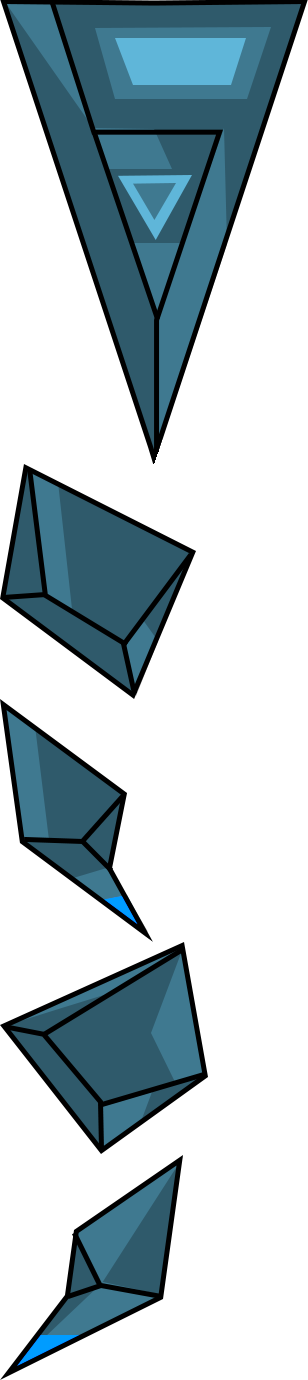
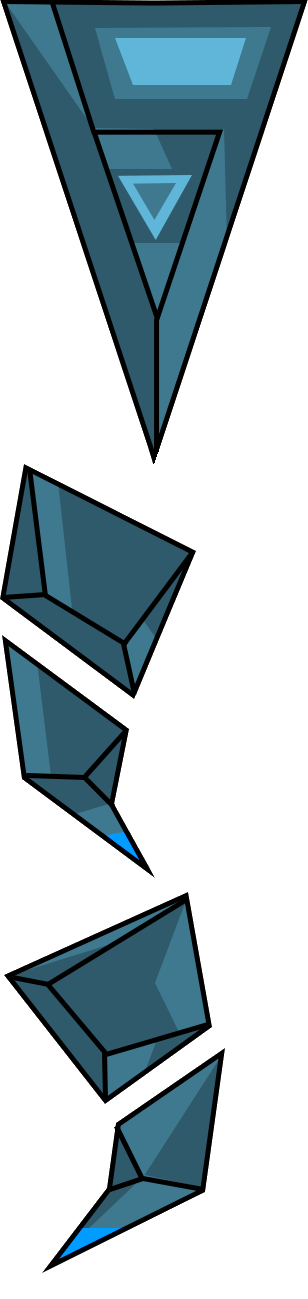
Basic Boss

diff --git a/src/entity/enemy/Enemy_Boss.cpp b/src/entity/enemy/Enemy_Boss.cpp
@@ -1,28 +1,29 @@
 #include "Enemy_Boss.hpp"
 #include "../Bullet/Bullet_Manager.hpp"
+#include <iostream>
 
 Enemy_Boss::Enemy_Boss()
 {
 	animations.push_back(Animation("boss_body"));
-	animations.push_back(Animation("boss_west_wing"));
-	animations.push_back(Animation("boss_west_gun"));
-	animations.push_back(Animation("boss_east_wing"));
-	animations.push_back(Animation("boss_east_gun"));
-	m_stats = EnemyStats(true, 1000, 10, 5, 10, 0.25f, 0);
+	animations.push_back(Animation("boss_west"));
+	animations.push_back(Animation("boss_east"));
+	m_stats = EnemyStats(true, 1000, 10, 5, 10, 2.0f, 0);
+	m_cycle_timer = Tick_Timer(1000);
+	
 }
 
-Enemy_Boss::Enemy_Boss(Bullet_Manager * bullet_manager)
+Enemy_Boss::Enemy_Boss(Bullet_Manager * bullet_manager, Player* player, World_Data* world_data)
+	: m_player(player), m_world_data(world_data)
 {
 	animations.push_back(Animation("boss_body"));
-	animations.push_back(Animation("boss_west_wing"));
-	animations.push_back(Animation("boss_west_gun"));
-	animations.push_back(Animation("boss_east_wing"));
-	animations.push_back(Animation("boss_east_gun"));
-	m_stats = EnemyStats(true, 1000, 10, 5, 10, 0.25f, 0);
+	animations.push_back(Animation("boss_west"));
+	animations.push_back(Animation("boss_east"));
+	m_stats = EnemyStats(true, 1000, 10, 5, 10, 2.0f, 0);
+	m_enemy_straight = Enemy_Straight(m_bullet_manager, m_player);
 
 	m_bullet_manager = bullet_manager;
 
-	m_length = 100;
+	m_length = 200;
 	m_distance_travelled = 0;
 	m_dir = 1;
 
@@ -30,6 +31,21 @@ Enemy_Boss::Enemy_Boss(Bullet_Manager * bullet_manager)
 
 	m_spawning = false;
 	m_spawned = false;
+
+	m_bullet_spawn_points.push_back(Point(306.0f / 2, 463.0f));
+	m_bullet_spawn_points.push_back(Point(306.0f / 2, 463.0f));
+	m_bullet_spawn_points.push_back(Point(306.0f / 2, 463.0f));
+
+	m_bullet_spawn_points.push_back(Point(306.0f / 2 - 362.0f, 463.0f - 89.0f));
+	m_bullet_spawn_points.push_back(Point(306.0f / 2 - 362.0f, 463.0f - 89.0f));
+	m_bullet_spawn_points.push_back(Point(306.0f / 2 - 362.0f, 463.0f - 89.0f));
+
+	m_bullet_spawn_points.push_back(Point(306.0f / 2 + 362.0f, 463.0f - 89.0f));
+	m_bullet_spawn_points.push_back(Point(306.0f / 2 + 362.0f, 463.0f - 89.0f));
+	m_bullet_spawn_points.push_back(Point(306.0f / 2 + 362.0f, 463.0f - 89.0f));
+
+	m_cycle_timer = Tick_Timer(1000);
+	m_open = true;
 }
 
 Enemy_Boss::~Enemy_Boss()
@@ -38,6 +54,7 @@ Enemy_Boss::~Enemy_Boss()
 
 void Enemy_Boss::update()
 {
+	update_arms();
 	if (m_spawned) {
 		flight_path();
 		if (m_fire_timer >= m_stats.fire_delay_) {
@@ -50,11 +67,15 @@ void Enemy_Boss::update()
 	else if (m_spawning) {
 		spawn_path();
 	}
+
+	if (m_cycle_timer.do_timer_loop())
+		m_open = !m_open;
 }
 
 void Enemy_Boss::doSpawn()
 {
 	m_spawning = true;
+	m_length = m_world_data->active_width - get_center().get_x() - 50;
 }
 
 void Enemy_Boss::draw(sf::RenderTarget & target, sf::RenderStates states) const
@@ -63,17 +84,19 @@ void Enemy_Boss::draw(sf::RenderTarget & target, sf::RenderStates states) const
 		target.draw(animations.at(i).get_current_frame(), states);
 }
 
+std::vector<Spawn_Data> Enemy_Boss::get_babies()
+{
+	return m_babies;
+}
+
 void Enemy_Boss::set_origin(Point p_p)
 {
-	/*animations.at(0).get_current_frame().setOrigin(p_p.get_x(), p_p.get_y());
-	animations.at(1).get_current_frame().setOrigin(p_p.get_x() - animations.at(1).get_frame_width() - animations.at(0).get_frame_width() / 2, p_p.get_y());
-	animations.at(2).get_current_frame().setOrigin(p_p.get_x() - animations.at(1).get_frame_width() - animations.at(0).get_frame_width() / 2, p_p.get_y() - 152/2);
-	animations.at(3).get_current_frame().setOrigin(p_p.get_x() + animations.at(1).get_frame_width() + animations.at(0).get_frame_width() / 2, p_p.get_y());
-	animations.at(4).get_current_frame().setOrigin(p_p.get_x() + animations.at(1).get_frame_width() + animations.at(0).get_frame_width() / 2, p_p.get_y() - 183/2);
+	animations.at(0).set_origin(p_p.get_x(), p_p.get_y());
+	animations.at(1).set_origin(238-103, -99);
+	animations.at(2).set_origin(544 - 494, -99);
+	/*animations.at(2).set_origin(159, -264);
+	animations.at(4).set_origin(-55, -264);*/
 
-	for (int i = 0; i < animations.size(); i++) {
-		animations.at(i).get_current_frame().setPosition(0, 0);
-	}*/
 }
 
 Animation Enemy_Boss::getCurrentAnimation()
@@ -140,19 +163,60 @@ void Enemy_Boss::spawn_path()
 
 void Enemy_Boss::fire()
 {
-	std::vector<Bullet_Blueprint> bullets;
-	for (int i = 0; i < m_bullet_spawn_points.size(); i++) {
-		float x = m_bullet_spawn_points.at(i).get_x();
-		float y = m_bullet_spawn_points.at(i).get_y();
+	if (m_open) {
+		std::vector<Bullet_Blueprint> bullets;
+		for (int i = 0; i < m_bullet_spawn_points.size(); i++) {
+			float x = m_bullet_spawn_points.at(i).get_x();
+			float y = m_bullet_spawn_points.at(i).get_y();
 
-		float rot = getCurrentAnimation().get_current_frame().getRotation() - 30 - i * 120;
+			float rot = (i % 3 - 1) * 30 - 90;
 
-		sf::Vector2f spawn = getCurrentAnimation().get_current_frame().getTransform().transformPoint(x, y);
+			sf::Vector2f spawn = getCurrentAnimation().get_current_frame().getTransform().transformPoint(x, y);
 
-		Point dir = Point(-cos(rot*M_PI / 180), -sin(rot*M_PI / 180));
-		dir.normalize();
+			Point dir = Point(-cos(rot*M_PI / 180), -sin(rot*M_PI / 180));
+			dir.normalize();
 
-		bullets.push_back(Bullet_Blueprint(BULLET_TYPES::LINEAR, m_stats.damage_, dir, Point(spawn.x, spawn.y), m_stats.bullet_speed_, this));
+			bullets.push_back(Bullet_Blueprint(BULLET_TYPES::LINEAR, m_stats.damage_, dir, Point(spawn.x, spawn.y), m_stats.bullet_speed_, this));
+		}
+		m_bullet_manager->add_bullets(bullets);
 	}
-	m_bullet_manager->add_bullets(bullets);
+	else {
+		/*Spawn_Data local_baby = Spawn_Data(kEnemyStraight, 16, get_center(), 100);
+		m_babies.push_back(local_baby);*/
+	}
+}
+
+void Enemy_Boss::update_arms()
+{
+	sf::Vector2f body = animations.at(0).get_current_frame().getPosition();
+	//animations.at(1).set_position(body.x - animations.at(0).get_frame_width() / 2 - 10, body.y - animations.at(1).get_frame_height() / 2 + 2);
+	//animations.at(3).set_position(body.x + animations.at(0).get_frame_width() / 2 + 10, body.y - animations.at(3).get_frame_height() / 2 + 2);
+
+	Point left = animations.at(1).get_position();
+	Point right = animations.at(2).get_position();
+
+	animations.at(1).set_position(body.x - 5, body.y - 45);
+	animations.at(2).set_position(body.x, body.y - 45);
+	/*
+	animations.at(2).set_position(body.x, body.y - 40);
+	animations.at(4).set_position(body.x - 7, body.y - 33);
+	*/
+	//animations.at(2)
+
+	if (m_open) {
+		animations.at(1).set_rotation(47);
+		animations.at(2).set_rotation(-47);
+		/*
+		animations.at(2).set_rotation(47);
+		animations.at(4).set_rotation(-47);*/
+	}
+	else{
+
+		animations.at(1).set_rotation(30);
+		animations.at(2).set_rotation(-30);
+
+		/*animations.at(2).set_rotation(0);
+		animations.at(4).set_rotation(0);*/
+	}
+
 }

diff --git a/src/entity/enemy/Enemy_Boss.hpp b/src/entity/enemy/Enemy_Boss.hpp
@@ -2,17 +2,20 @@
 #define ENEMY_BOSS_HPP
 
 #include "Enemy.hpp"
+#include "Enemy_Straight.hpp"
+#include "../../communal/Tick_Timer.hpp"
 
 class Enemy_Boss : public Enemy
 {
 
 public:
 	Enemy_Boss();
-	Enemy_Boss(Bullet_Manager* bullet_manager);
+	Enemy_Boss(Bullet_Manager* bullet_manager, Player* player, World_Data* world_data);
 	~Enemy_Boss();
 	virtual void update();
 	virtual void doSpawn();
 	virtual void draw(sf::RenderTarget& target, sf::RenderStates states) const;
+	virtual std::vector<Spawn_Data> get_babies();
 
 	void set_origin(Point p_p);
 
@@ -25,10 +28,19 @@ private:
 	int m_length;
 	int m_distance_travelled;
 	int m_dir;
+	bool m_open;
+	bool m_transitioning;
+	Tick_Timer m_cycle_timer;
+	float rot_offset;
+	Enemy_Straight m_enemy_straight;
+	World_Data* m_world_data;
+	Player* m_player;
+	std::vector<Spawn_Data> m_babies;
 
 	virtual void flight_path();
 	virtual void spawn_path();
 	virtual void fire();
+	void update_arms();
 };
 
 #endif //ENEMY_BOSS_HPP

diff --git a/src/gamestate/states/Test/Andrew_Test_State.cpp b/src/gamestate/states/Test/Andrew_Test_State.cpp
@@ -23,7 +23,7 @@ Andrew_Test_State::Andrew_Test_State(Imagehandler& imagehandler,Audiohandler& au
 	std::deque<Spawn_Data> spawn_data_one;
 	std::deque<Spawn_Data> spawn_data_two;
 
-	spawn_data_one.push_back(Spawn_Data(0, 0, Point(500, 200), 100));
+	spawn_data_one.push_back(Spawn_Data(0, 0, Point(500, 100), 100));
 
 	m_wave_one = Wave(enemies, false, spawn_data_one);
 	m_wave_manager = Wave_Manager(&m_bullet_manager, &m_test_player, &world);
@@ -78,6 +78,7 @@ void Andrew_Test_State::update(Mousey& mouse,Keyblade& keyboard,Gamepad& gamepad
     }
 
 	bool spawn = mouse.is_clicked();
+
 
 	if (spawn) {
 		m_wave_manager.add_wave(m_wave_one);

diff --git a/src/wave/Wave_Manager.cpp b/src/wave/Wave_Manager.cpp
@@ -12,7 +12,7 @@ Wave_Manager::Wave_Manager(Bullet_Manager* bullet_manager, Player* player, World
 	m_enemy_burst = Enemy_Burst(m_bullet_manager);
 	m_enemy_sine = Enemy_Sine(m_bullet_manager, m_player);
 	m_enemy_v = Enemy_V(m_bullet_manager);
-	m_enemy_boss = Enemy_Boss(m_bullet_manager);
+	m_enemy_boss = Enemy_Boss(m_bullet_manager, player, world_data);
 
 	m_wave_number = 0;
 	m_wave_difficulty = 0;

diff --git a/src/image/Animation.hpp b/src/image/Animation.hpp
@@ -72,6 +72,16 @@ public:
 		}
 	}
 
+	void set_origin(float x, float y) {
+		for (int i = 0; i < number_of_frames; i++) {
+			sprites[i].setOrigin(x, y);
+		}
+	}
+
+	void set_origin(Point daniels_butthole) {
+		set_origin(daniels_butthole.get_x(), daniels_butthole.get_y());
+	}
+
 	void scale(Point scale){
 		for(int i=0;i<number_of_frames;i++){
 			sprites[i].scale(scale.get_x(),scale.get_y());

diff --git a/src/gamestate/states/Test/Andrew_Test_State.hpp b/src/gamestate/states/Test/Andrew_Test_State.hpp
@@ -22,8 +22,8 @@ private:
 	Wave_Manager m_wave_manager;
 	Wave m_wave_one;
 	Wave m_wave_two;
-	Player m_test_player = Player(&m_bullet_manager);
-	Enemy_Boss m_enemy_boss = Enemy_Boss(&m_bullet_manager);
+	Player m_test_player;
+	Enemy_Boss m_enemy_boss;
     World_Data world;
 
     UIHandler ui_handler = UIHandler(world);

diff --git a/src/entity/enemy/Enemy.hpp b/src/entity/enemy/Enemy.hpp
@@ -33,6 +33,7 @@ public:
 	~Enemy();
 	virtual void update() = 0;
 	virtual void doSpawn() = 0;
+	virtual std::vector<Spawn_Data> get_babies();
 
 	bool is_alive();
 	void take_damage(float damage);

diff --git a/src/entity/enemy/Enemy.cpp b/src/entity/enemy/Enemy.cpp
@@ -14,6 +14,11 @@ Enemy::~Enemy()
 {
 }
 
+std::vector<Spawn_Data> Enemy::get_babies()
+{
+	return std::vector<Spawn_Data>();
+}
+
 bool Enemy::is_alive()
 {
 	return m_stats.health_>0;
